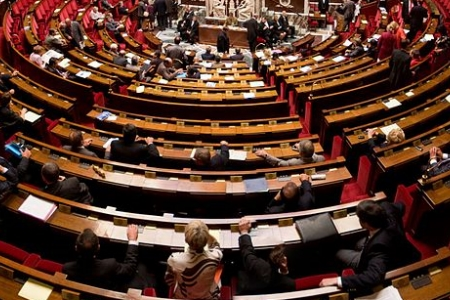
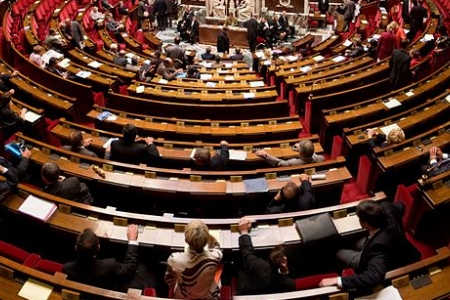
Optimized images

diff --git a/index.html b/index.html
@@ -163,7 +163,7 @@
                                         </h3>
                                     </div>
                                 </div>
-                                <img src="assets/img/demo-portfolio/constituante_1.png" class="img-centered" alt="">
+                                <img src="assets/img/demo-portfolio/constituante_1.jpg" class="img-centered" alt="">
                             </a>
                         </div>
 						<div class="col-sm-4 portfolio-item eco">
@@ -241,7 +241,7 @@
                                         </h3>
                                     </div>
                                 </div>
-                                <img src="assets/img/demo-portfolio/geoblocking_1.png" class="img-centered" alt="">
+                                <img src="assets/img/demo-portfolio/geoblocking_1.jpg" class="img-centered" alt="">
                             </a>
                         </div>
                         <div class="col-sm-4 portfolio-item democratie">
@@ -293,7 +293,7 @@
                                         </h3>
                                     </div>
                                 </div>
-                                <img src="assets/img/demo-portfolio/ttf_1.png" class="img-centered" alt="">
+                                <img src="assets/img/demo-portfolio/ttf_1.jpg" class="img-centered" alt="">
                             </a>
                         </div>
                     </div>
@@ -837,8 +837,8 @@
                 <div class="row">
                     <div class="col-md-6">
 					<div id="project-details-carousel" class="owl-carousel owl-theme">
-						<div class="item"><img src="assets/img/demo-portfolio/geoblocking_1.png" alt=""></div>
-						<div class="item"><img src="assets/img/demo-portfolio/geoblocking_2.png" alt=""></div>
+						<div class="item"><img src="assets/img/demo-portfolio/geoblocking_1.jpg" alt=""></div>
+						<div class="item"><img src="assets/img/demo-portfolio/geoblocking_2.jpg" alt=""></div>
 					</div>
                     </div>
                     <div class="col-md-6">
@@ -967,8 +967,8 @@
                 <div class="row">
                     <div class="col-md-6">
                         <div id="project-details-carousel" class="owl-carousel owl-theme">
-                            <div class="item"><img src="assets/img/demo-portfolio/constituante_1.png" alt=""></div>
-                            <div class="item"><img src="assets/img/demo-portfolio/constituante_2.png" alt=""></div>
+                            <div class="item"><img src="assets/img/demo-portfolio/constituante_1.jpg" alt=""></div>
+                            <div class="item"><img src="assets/img/demo-portfolio/constituante_2.jpg" alt=""></div>
                         </div>
                     </div>
                     <div class="col-md-6">
@@ -1164,7 +1164,7 @@
                 <div class="row">
                     <div class="col-md-6">
                         <div id="project-details-carousel" class="owl-carousel owl-theme">
-                            <div class="item"><img src="assets/img/demo-portfolio/ttf_1.png" alt=""></div>
+                            <div class="item"><img src="assets/img/demo-portfolio/ttf_1.jpg" alt=""></div>
                         </div>
                     </div>
                     <div class="col-md-6">
@@ -1226,7 +1226,7 @@
     $(".video-bg").wallpaper({
         source: {
             mp4: "assets/mp4/Drapeau.mp4",
-            poster: "assets/img/demo-bgs/video-bg-fallback.png"
+            poster: "assets/img/demo-bgs/video-bg-fallback.jpg"
         }
     });
     </script>
